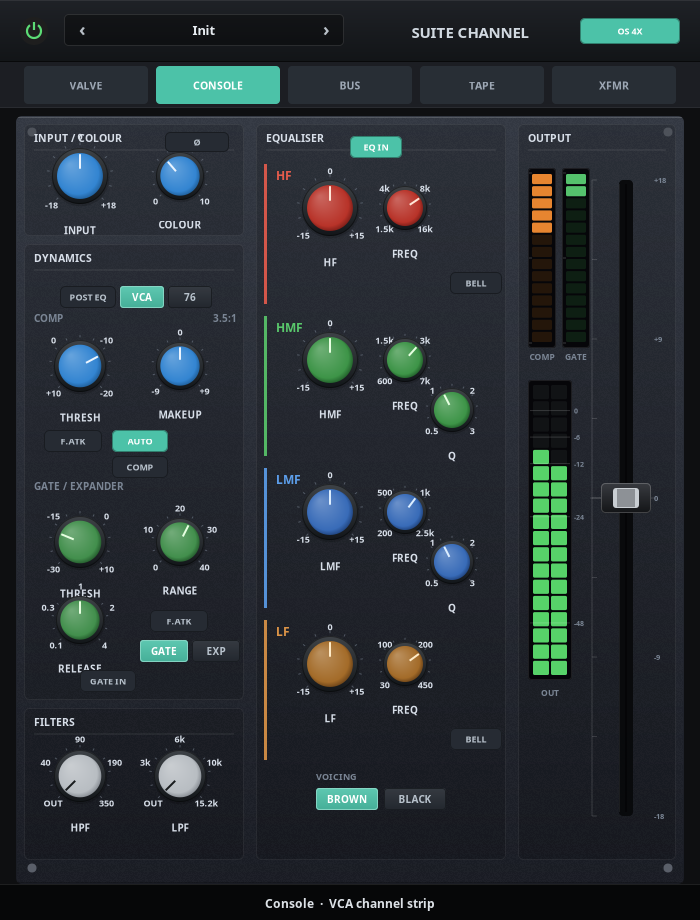
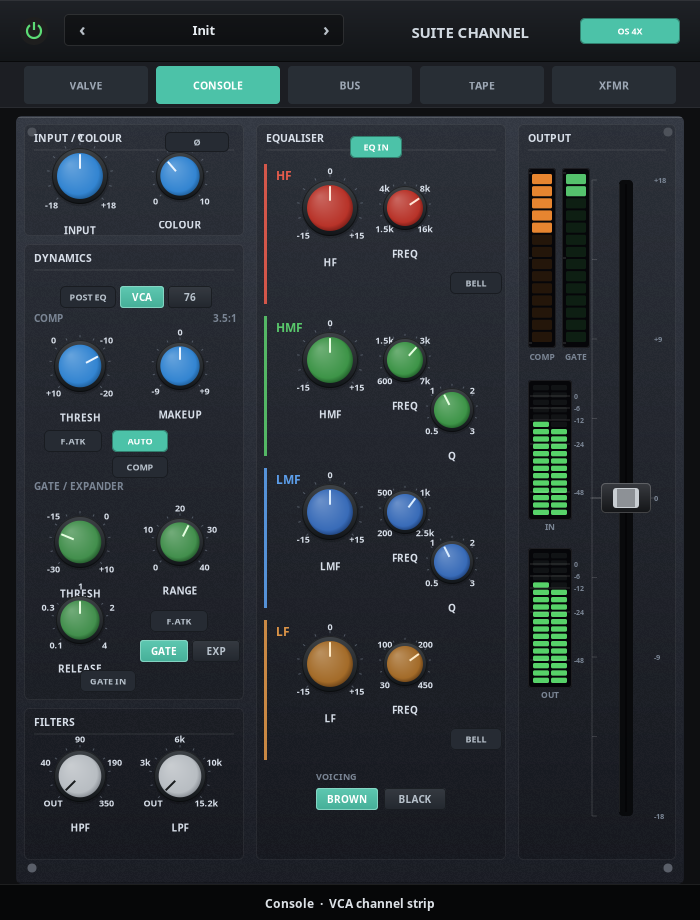
0.1.1: add stacked input level meter

Changed region(s): [[0.75, 0.4565, 0.84, 0.7609]]

diff --git a/src/ui/panel.cpp b/src/ui/panel.cpp
@@ -817,10 +817,15 @@ void Panel::drawBody(cairo_t* cr, const Shared& shared,
   grMeter(562, 168, 28, 180, state.gateGrDb, 40.0, {0.35, 0.80, 0.45},
           "GATE");
 
-  // Output level meter, to the left of the long fader.
-  drawLevelMeter(cr, 528, 380, 44, 300, state.outLevelL, state.outLevelR,
+  // Input and output level meters, stacked to the left of the long fader.
+  drawLevelMeter(cr, 528, 380, 44, 140, state.inLevelL, state.inLevelR,
                  -60.0, 6.0, true);
-  text(cr, "OUT", 550, 696, 8.5, 1, skin.legendDim.r, skin.legendDim.g,
+  text(cr, "IN", 550, 530, 8.5, 1, skin.legendDim.r, skin.legendDim.g,
+       skin.legendDim.b);
+
+  drawLevelMeter(cr, 528, 548, 44, 140, state.outLevelL, state.outLevelR,
+                 -60.0, 6.0, true);
+  text(cr, "OUT", 550, 698, 8.5, 1, skin.legendDim.r, skin.legendDim.g,
        skin.legendDim.b);
 
   // Footer.

diff --git a/src/version.hpp b/src/version.hpp
@@ -6,7 +6,7 @@ namespace suite {
 
 constexpr int kVersionMajor = 0;
 constexpr int kVersionMinor = 1;
-constexpr int kVersionMicro = 0;
-constexpr const char* kVersion = "0.1.0";
+constexpr int kVersionMicro = 1;
+constexpr const char* kVersion = "0.1.1";
 
 } // namespace suite

diff --git a/README.md b/README.md
@@ -1,6 +1,6 @@
 # Suite Channel
 
-**Version 0.1.0** · GPL-3.0-or-later · CLAP + LV2 · Linux
+**Version 0.1.1** · GPL-3.0-or-later · CLAP + LV2 · Linux
 
 Suite Channel is a vertical SSL-style channel strip in the Comp Suite visual
 language. It combines:
@@ -142,12 +142,12 @@ session. Treat the URI as permanent.
 
 ## Current status
 
-0.1.0 is the first working vertical strip: CLAP and LV2 load, the editor
-renders, the DSP runs, the factory presets are generated, and the state tests
-cover VCA/76, Brown/Black, presets, expander/gate, power bypass and all
-oversampling modes. The remaining gates are the explicit EQ parity measurement
-against the upstream Dusk core, the full Ardour/Carla/REAPER matrix, and an
-input level meter.
+0.1.1 adds a stacked stereo input level meter to the 0.1.0 strip. CLAP and LV2
+load, the editor renders, the DSP runs, the factory presets are generated, and
+the state tests cover VCA/76, Brown/Black, presets, expander/gate, power
+bypass and all oversampling modes. The remaining gates are the explicit EQ
+parity measurement against the upstream Dusk core and the full
+Ardour/Carla/REAPER matrix.
 
 ## Licence
 

diff --git a/CHANGELOG.md b/CHANGELOG.md
@@ -1,5 +1,12 @@
 # Changelog
 
+## 0.1.1 — 2026-11-16
+
+- Added a stacked stereo **input level meter** above the output meter, with
+  the same LED ladder and dB marks.
+- Input metering is pre-trim; output remains post-fader/clip.
+- Input and output meters both receive LV2 UI port notifications.
+
 ## 0.1.0 — 2026-11-15
 
 First working vertical channel strip.
